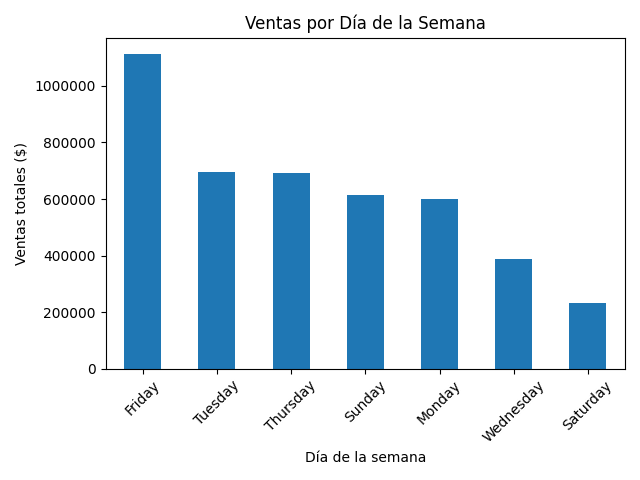
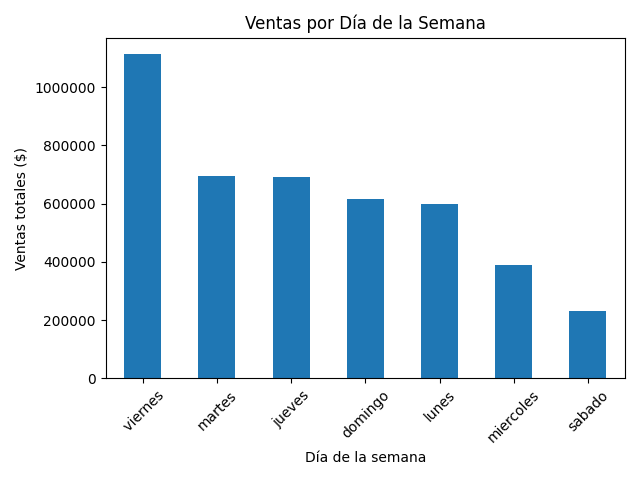
Tarea_graficosv2

diff --git a/victor/bot.py b/victor/bot.py
@@ -206,9 +206,23 @@ plt.show()
 df_consolidado['fecha_dt'] = pd.to_datetime(df_consolidado['fecha'], errors='coerce')
 df_consolidado['dia_semana'] = df_consolidado['fecha_dt'].dt.day_name()
 
+dias_español = {
+    'Monday': 'lunes',
+    'Tuesday': 'martes',
+    'Wednesday': 'miercoles',
+    'Thursday': 'jueves',
+    'Friday': ' viernes',
+    'Saturday': 'sabado',
+    'Sunday': 'domingo'
+}
+
+df_consolidado['dia_semana'] = df_consolidado['fecha_dt'].dt.day_name().map(dias_español)
+
 ventas_dia_semana = df_consolidado.groupby('dia_semana')['precio_unitario'].sum()
 ventas_dia_semana = ventas_dia_semana.sort_values(ascending=False)
 print(ventas_dia_semana)
+
+
 
 plt.figure()
 ventas_dia_semana.plot(kind='bar', title='Ventas por Día de la Semana')
